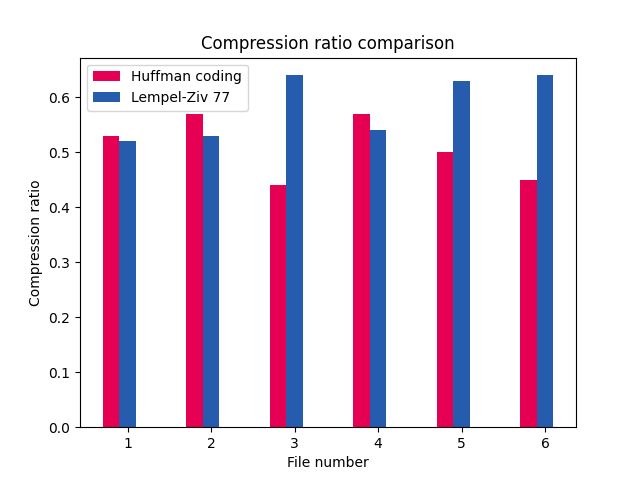
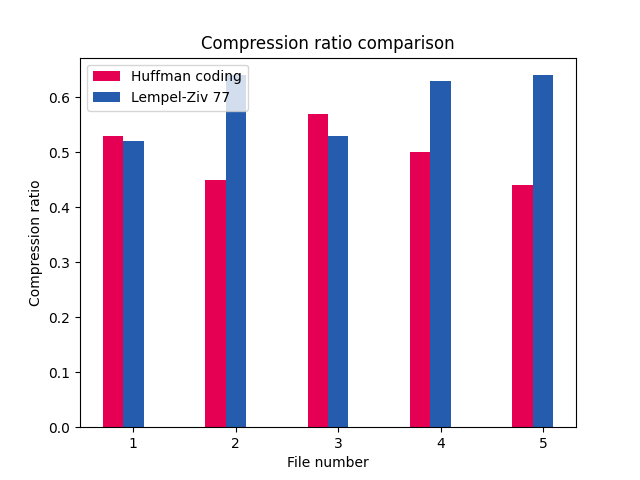
Update demo-html-log

diff --git a/test-data/compression-log.html b/test-data/compression-log.html
@@ -1,9 +1,9 @@
 <h1>Extended testing report</h1><br>
-<p>This document includes a report of the extended testing executed on <b>17.06.2022 20:21:25</b>. The tables include information on compression and uncompression of test files. You can also find graphs that measure perfomance of compression algorithms based on selected measurers. Note that running the extended tests overwrites the report.</p><br>
+<p>This document includes a report of the extended testing executed on <b>18.06.2022 13:05:03</b>. The tables include information on compression and uncompression of test files. You can also find graphs that measure perfomance of compression algorithms based on selected measurers. Note that running the extended tests overwrites the report.</p><br>
 
 -<H2>EXTENSIVE TEST SUMMARY</H2><br>
-<b>Total runtime:</b> 85.04 seconds<br>
-<b>Successful tests:</b> 6<br>
+<b>Total runtime:</b> 15.26 seconds<br>
+<b>Successful tests:</b> 5<br>
 <b>Failed tests:</b> 0<br>
 
 <h2>Detailed summary</h2><br>
@@ -27,7 +27,7 @@
         <td>655004</td>
         <td>346447</td>
         <td style='color:green;text-align: center'>0.53</style></td>
-        <td style='text-align: center'>0.15</td>
+        <td style='text-align: center'>0.17</td>
         <td style='text-align: center'>0.00</td>
         <td style='text-align: center'>0.06</td>
     </tr>
@@ -38,117 +38,95 @@
         <td>655004</td>
         <td>339017</td>
         <td style='color:green;text-align: center'>0.52</style></td>
-        <td style='text-align: center'>1.51</td>
+        <td style='text-align: center'>1.42</td>
         <td style='text-align: center'>0.00</td>
         <td style='text-align: center'>0.00</td>
     </tr>
     <tr>
         <th>2</th>
+        <td>gutenberg-project-ebook-2.txt</td>
+        <td>Huffman coding</td>
+        <td>1007060</td>
+        <td>453621</td>
+        <td style='color:green;text-align: center'>0.45</style></td>
+        <td style='text-align: center'>0.25</td>
+        <td style='text-align: center'>0.00</td>
+        <td style='text-align: center'>0.07</td>
+    </tr>
+    <tr>
+        <th>2</th>
+        <td>gutenberg-project-ebook-2.txt</td>
+        <td>Lempel-Ziv 77</td>
+        <td>1007060</td>
+        <td>648912</td>
+        <td style='color:red;text-align: center'>0.64</style></td>
+        <td style='text-align: center'>3.10</td>
+        <td style='text-align: center'>0.00</td>
+        <td style='text-align: center'>0.00</td>
+    </tr>
+    <tr>
+        <th>3</th>
         <td>gutenberg-project-ebook-1.txt</td>
         <td>Huffman coding</td>
         <td>809246</td>
         <td>460383</td>
         <td style='color:green;text-align: center'>0.57</style></td>
-        <td style='text-align: center'>0.20</td>
+        <td style='text-align: center'>0.19</td>
         <td style='text-align: center'>0.00</td>
-        <td style='text-align: center'>0.10</td>
+        <td style='text-align: center'>0.07</td>
     </tr>
     <tr>
-        <th>2</th>
+        <th>3</th>
         <td>gutenberg-project-ebook-1.txt</td>
         <td>Lempel-Ziv 77</td>
         <td>809246</td>
         <td>432296</td>
         <td style='color:green;text-align: center'>0.53</style></td>
-        <td style='text-align: center'>1.90</td>
+        <td style='text-align: center'>1.85</td>
         <td style='text-align: center'>0.00</td>
         <td style='text-align: center'>0.00</td>
     </tr>
     <tr>
-        <th>3</th>
+        <th>4</th>
+        <td>gutenberg-project-ebook-3.txt</td>
+        <td>Huffman coding</td>
+        <td>480294</td>
+        <td>241501</td>
+        <td style='color:green;text-align: center'>0.50</style></td>
+        <td style='text-align: center'>0.12</td>
+        <td style='text-align: center'>0.00</td>
+        <td style='text-align: center'>0.04</td>
+    </tr>
+    <tr>
+        <th>4</th>
+        <td>gutenberg-project-ebook-3.txt</td>
+        <td>Lempel-Ziv 77</td>
+        <td>480294</td>
+        <td>302802</td>
+        <td style='color:red;text-align: center'>0.63</style></td>
+        <td style='text-align: center'>1.42</td>
+        <td style='text-align: center'>0.00</td>
+        <td style='text-align: center'>0.00</td>
+    </tr>
+    <tr>
+        <th>5</th>
         <td>first-100000-decimals-of-pi.txt</td>
         <td>Huffman coding</td>
         <td>100002</td>
         <td>43726</td>
         <td style='color:green;text-align: center'>0.44</style></td>
-        <td style='text-align: center'>0.02</td>
+        <td style='text-align: center'>0.03</td>
         <td style='text-align: center'>0.00</td>
         <td style='text-align: center'>0.01</td>
     </tr>
     <tr>
-        <th>3</th>
+        <th>5</th>
         <td>first-100000-decimals-of-pi.txt</td>
         <td>Lempel-Ziv 77</td>
         <td>100002</td>
         <td>63696</td>
         <td style='color:red;text-align: center'>0.64</style></td>
-        <td style='text-align: center'>0.29</td>
-        <td style='text-align: center'>0.00</td>
-        <td style='text-align: center'>0.00</td>
-    </tr>
-    <tr>
-        <th>4</th>
-        <td>gutenberg-top-10.txt</td>
-        <td>Huffman coding</td>
-        <td>15300340</td>
-        <td>8722153</td>
-        <td style='color:green;text-align: center'>0.57</style></td>
-        <td style='text-align: center'>3.56</td>
-        <td style='text-align: center'>0.01</td>
-        <td style='text-align: center'>1.42</td>
-    </tr>
-    <tr>
-        <th>4</th>
-        <td>gutenberg-top-10.txt</td>
-        <td>Lempel-Ziv 77</td>
-        <td>15300340</td>
-        <td>8236705</td>
-        <td style='color:green;text-align: center'>0.54</style></td>
-        <td style='text-align: center'>37.01</td>
-        <td style='text-align: center'>0.01</td>
-        <td style='text-align: center'>0.00</td>
-    </tr>
-    <tr>
-        <th>5</th>
-        <td>gutenberg-poject-ebook-3.txt</td>
-        <td>Huffman coding</td>
-        <td>480294</td>
-        <td>241501</td>
-        <td style='color:green;text-align: center'>0.50</style></td>
-        <td style='text-align: center'>0.11</td>
-        <td style='text-align: center'>0.00</td>
-        <td style='text-align: center'>0.04</td>
-    </tr>
-    <tr>
-        <th>5</th>
-        <td>gutenberg-poject-ebook-3.txt</td>
-        <td>Lempel-Ziv 77</td>
-        <td>480294</td>
-        <td>302802</td>
-        <td style='color:red;text-align: center'>0.63</style></td>
-        <td style='text-align: center'>1.32</td>
-        <td style='text-align: center'>0.00</td>
-        <td style='text-align: center'>0.00</td>
-    </tr>
-    <tr>
-        <th>6</th>
-        <td>gutenberg-poject-ebook-2.txt</td>
-        <td>Huffman coding</td>
-        <td>1007060</td>
-        <td>453621</td>
-        <td style='color:green;text-align: center'>0.45</style></td>
-        <td style='text-align: center'>0.24</td>
-        <td style='text-align: center'>0.00</td>
-        <td style='text-align: center'>0.11</td>
-    </tr>
-    <tr>
-        <th>6</th>
-        <td>gutenberg-poject-ebook-2.txt</td>
-        <td>Lempel-Ziv 77</td>
-        <td>1007060</td>
-        <td>648912</td>
-        <td style='color:red;text-align: center'>0.64</style></td>
-        <td style='text-align: center'>2.90</td>
+        <td style='text-align: center'>0.32</td>
         <td style='text-align: center'>0.00</td>
         <td style='text-align: center'>0.00</td>
     </tr>
@@ -173,7 +151,7 @@
         <td>655004</td>
         <td>346447</td>
         <td style='color:green;text-align: center'>0.53</style></td>
-        <td style='text-align: center'>0.71</td>
+        <td style='text-align: center'>0.73</td>
         <td style='text-align: center'>0.08</td>
         <td style='text-align: center'>0.00</td>
     </tr>
@@ -184,34 +162,78 @@
         <td>655004</td>
         <td>339017</td>
         <td style='color:green;text-align: center'>0.52</style></td>
-        <td style='text-align: center'>0.16</td>
+        <td style='text-align: center'>0.15</td>
         <td style='text-align: center'>0.08</td>
         <td style='text-align: center'>0.00</td>
     </tr>
     <tr>
         <th>2</th>
+        <td>gutenberg-project-ebook-2.huf</td>
+        <td>Huffman coding</td>
+        <td>1007060</td>
+        <td>453621</td>
+        <td style='color:green;text-align: center'>0.45</style></td>
+        <td style='text-align: center'>0.95</td>
+        <td style='text-align: center'>0.11</td>
+        <td style='text-align: center'>0.00</td>
+    </tr>
+    <tr>
+        <th>2</th>
+        <td>gutenberg-project-ebook-2.lz</td>
+        <td>Lempel-Ziv 77</td>
+        <td>1007060</td>
+        <td>648912</td>
+        <td style='color:red;text-align: center'>0.64</style></td>
+        <td style='text-align: center'>0.26</td>
+        <td style='text-align: center'>0.15</td>
+        <td style='text-align: center'>0.00</td>
+    </tr>
+    <tr>
+        <th>3</th>
         <td>gutenberg-project-ebook-1.huf</td>
         <td>Huffman coding</td>
         <td>809246</td>
         <td>460383</td>
         <td style='color:green;text-align: center'>0.57</style></td>
-        <td style='text-align: center'>1.00</td>
+        <td style='text-align: center'>0.92</td>
         <td style='text-align: center'>0.12</td>
         <td style='text-align: center'>0.00</td>
     </tr>
     <tr>
-        <th>2</th>
+        <th>3</th>
         <td>gutenberg-project-ebook-1.lz</td>
         <td>Lempel-Ziv 77</td>
         <td>809246</td>
         <td>432296</td>
         <td style='color:green;text-align: center'>0.53</style></td>
-        <td style='text-align: center'>0.20</td>
-        <td style='text-align: center'>0.11</td>
+        <td style='text-align: center'>0.19</td>
+        <td style='text-align: center'>0.10</td>
         <td style='text-align: center'>0.00</td>
     </tr>
     <tr>
-        <th>3</th>
+        <th>4</th>
+        <td>gutenberg-project-ebook-3.huf</td>
+        <td>Huffman coding</td>
+        <td>480294</td>
+        <td>241501</td>
+        <td style='color:green;text-align: center'>0.50</style></td>
+        <td style='text-align: center'>0.51</td>
+        <td style='text-align: center'>0.06</td>
+        <td style='text-align: center'>0.00</td>
+    </tr>
+    <tr>
+        <th>4</th>
+        <td>gutenberg-project-ebook-3.lz</td>
+        <td>Lempel-Ziv 77</td>
+        <td>480294</td>
+        <td>302802</td>
+        <td style='color:red;text-align: center'>0.63</style></td>
+        <td style='text-align: center'>0.13</td>
+        <td style='text-align: center'>0.08</td>
+        <td style='text-align: center'>0.00</td>
+    </tr>
+    <tr>
+        <th>5</th>
         <td>first-100000-decimals-of-pi.huf</td>
         <td>Huffman coding</td>
         <td>100002</td>
@@ -222,7 +244,7 @@
         <td style='text-align: center'>0.00</td>
     </tr>
     <tr>
-        <th>3</th>
+        <th>5</th>
         <td>first-100000-decimals-of-pi.lz</td>
         <td>Lempel-Ziv 77</td>
         <td>100002</td>
@@ -232,75 +254,10 @@
         <td style='text-align: center'>0.01</td>
         <td style='text-align: center'>0.00</td>
     </tr>
-    <tr>
-        <th>4</th>
-        <td>gutenberg-top-10.huf</td>
-        <td>Huffman coding</td>
-        <td>15300340</td>
-        <td>8722153</td>
-        <td style='color:green;text-align: center'>0.57</style></td>
-        <td style='text-align: center'>16.64</td>
-        <td style='text-align: center'>2.01</td>
-        <td style='text-align: center'>0.01</td>
-    </tr>
-    <tr>
-        <th>4</th>
-        <td>gutenberg-top-10.lz</td>
-        <td>Lempel-Ziv 77</td>
-        <td>15300340</td>
-        <td>8236705</td>
-        <td style='color:green;text-align: center'>0.54</style></td>
-        <td style='text-align: center'>3.62</td>
-        <td style='text-align: center'>1.89</td>
-        <td style='text-align: center'>0.02</td>
-    </tr>
-    <tr>
-        <th>5</th>
-        <td>gutenberg-poject-ebook-3.huf</td>
-        <td>Huffman coding</td>
-        <td>480294</td>
-        <td>241501</td>
-        <td style='color:green;text-align: center'>0.50</style></td>
-        <td style='text-align: center'>0.47</td>
-        <td style='text-align: center'>0.06</td>
-        <td style='text-align: center'>0.00</td>
-    </tr>
-    <tr>
-        <th>5</th>
-        <td>gutenberg-poject-ebook-3.lz</td>
-        <td>Lempel-Ziv 77</td>
-        <td>480294</td>
-        <td>302802</td>
-        <td style='color:red;text-align: center'>0.63</style></td>
-        <td style='text-align: center'>0.13</td>
-        <td style='text-align: center'>0.07</td>
-        <td style='text-align: center'>0.00</td>
-    </tr>
-    <tr>
-        <th>6</th>
-        <td>gutenberg-poject-ebook-2.huf</td>
-        <td>Huffman coding</td>
-        <td>1007060</td>
-        <td>453621</td>
-        <td style='color:green;text-align: center'>0.45</style></td>
-        <td style='text-align: center'>0.91</td>
-        <td style='text-align: center'>0.12</td>
-        <td style='text-align: center'>0.00</td>
-    </tr>
-    <tr>
-        <th>6</th>
-        <td>gutenberg-poject-ebook-2.lz</td>
-        <td>Lempel-Ziv 77</td>
-        <td>1007060</td>
-        <td>648912</td>
-        <td style='color:red;text-align: center'>0.64</style></td>
-        <td style='text-align: center'>0.27</td>
-        <td style='text-align: center'>0.15</td>
-        <td style='text-align: center'>0.00</td>
-    </tr>
 </table>
 <h2>Graphs</h2>
 <p>Below you can review visual comparison of test results. The labels indicate the number of the file in question. Filenames can be found with the number from the tables above.</p>
 <img src='images/compression-ratio-comparison.png' alt='Compression ratio comparison'>Bar chart with compression ratios</img><br>
 <img src='images/huffman-frequency-variance.png' alt='Huffman frequency variances'></img><br>
 <img src='images/lempel-ziv-avg-match.png' alt='Lempel-Ziv average match length'></img><br>
+<img src='images/lempel-ziv-avg-offset.png' alt='Lempel-Ziv average offset length'></img><br>
